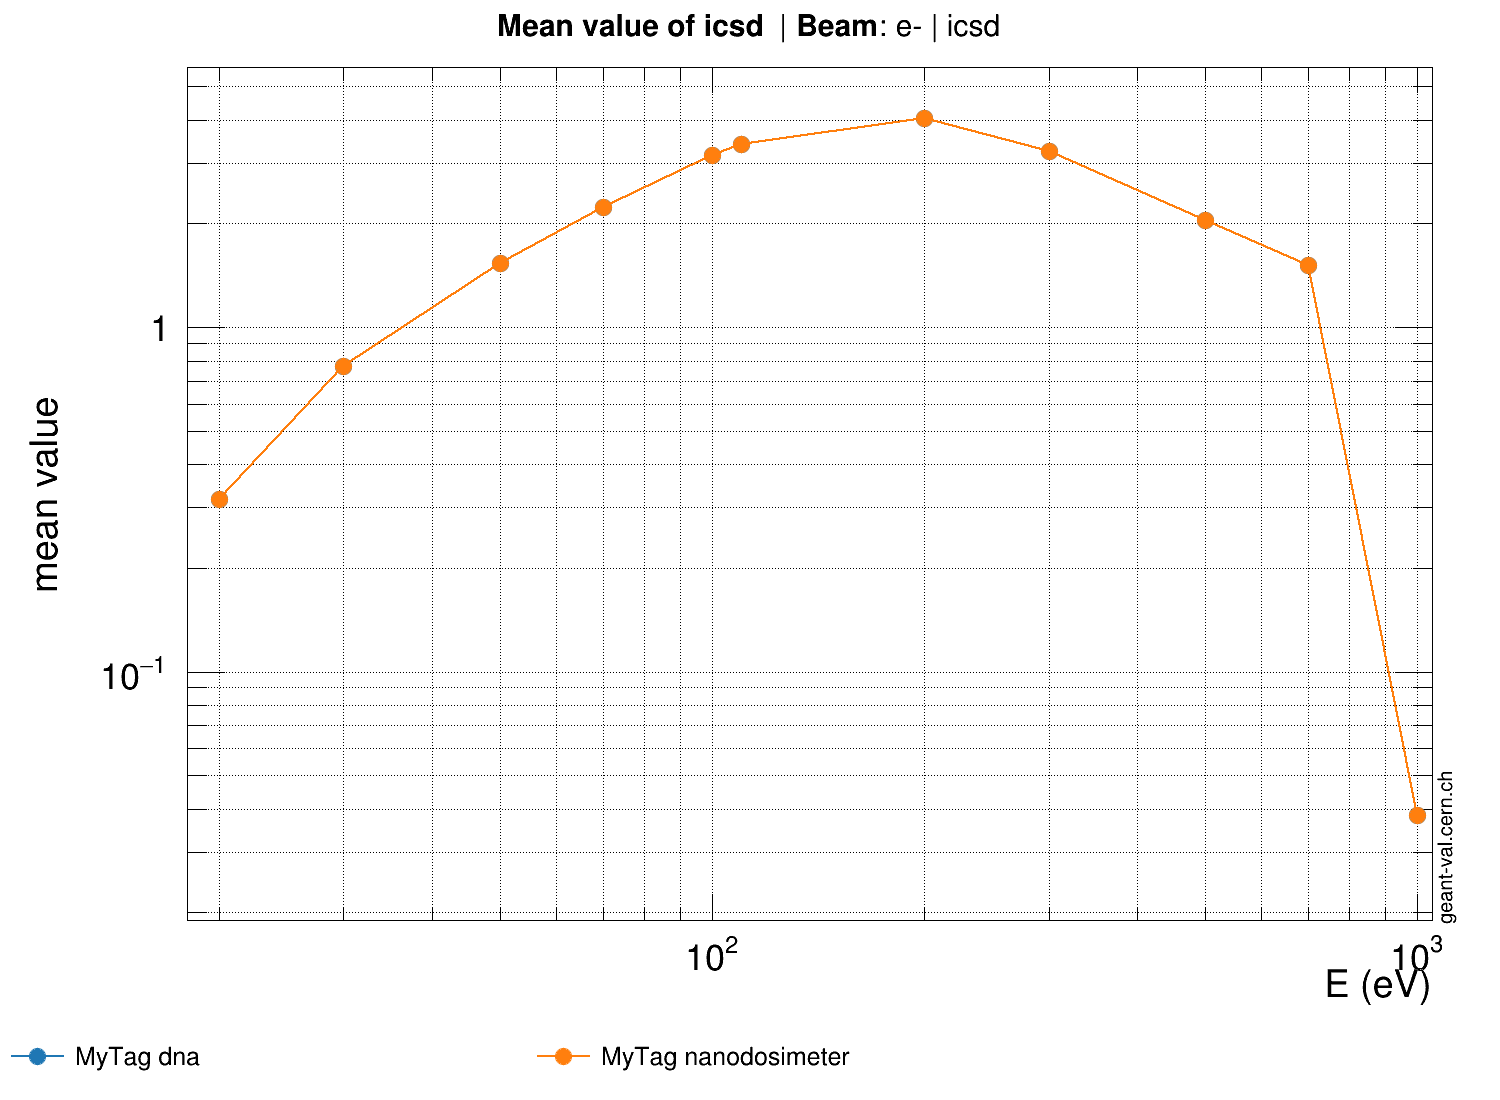
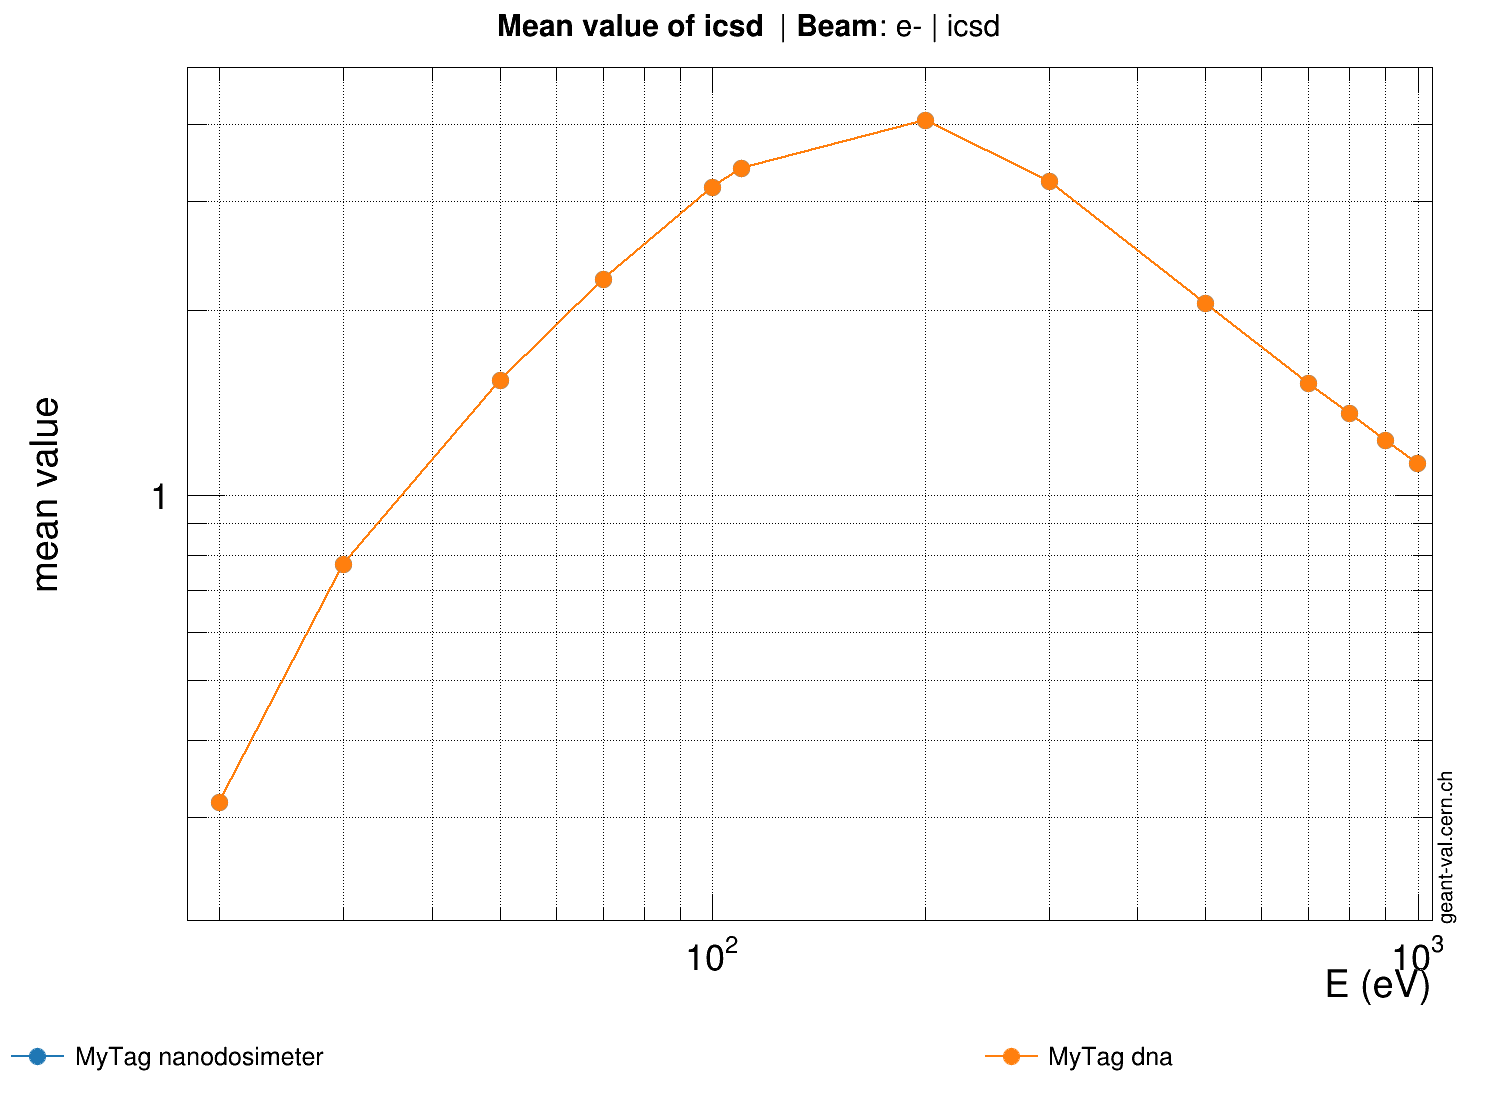
icsd/electron.conf/MyTag : jeu. mars 23 14:07:37 CET 2023

diff --git a/assets/OUTPUTJSON/geant4/MyTag/x86_64/icsd/electron.conf.c b/assets/OUTPUTJSON/geant4/MyTag/x86_64/icsd/electron.conf.c
@@ -478,3 +478,139 @@ double gvp_id-1_yerrors[11] = {
   0,
   0
 };
+// Tool:               GEANT4
+// Version:            MyTag
+// Model:              icsd
+// Observable:         mean value of icsd
+// Target:             nanodosimeter
+// Beam Particle:      e-
+// Secondary Particle: None
+
+double gvp_id-1_x[13] = {
+  20,
+  30,
+  50,
+  70,
+  100,
+  110,
+  200,
+  300,
+  500,
+  700,
+  800,
+  900,
+  999
+};
+double gvp_id-1_y[13] = {
+  0.3173,
+  0.7721,
+  1.53449,
+  2.24022,
+  3.16173,
+  3.39893,
+  4.06002,
+  3.2373,
+  2.04763,
+  1.51898,
+  1.35961,
+  1.22712,
+  1.12516
+};
+double gvp_id-1_xerrors[13] = {
+  0,
+  0,
+  0,
+  0,
+  0,
+  0,
+  0,
+  0,
+  0,
+  0,
+  0,
+  0,
+  0
+};
+double gvp_id-1_yerrors[13] = {
+  0,
+  0,
+  0,
+  0,
+  0,
+  0,
+  0,
+  0,
+  0,
+  0,
+  0,
+  0,
+  0
+};
+// Tool:               GEANT4
+// Version:            MyTag
+// Model:              icsd
+// Observable:         mean value of icsd
+// Target:             dna
+// Beam Particle:      e-
+// Secondary Particle: None
+
+double gvp_id-1_x[13] = {
+  20,
+  30,
+  50,
+  70,
+  100,
+  110,
+  200,
+  300,
+  500,
+  700,
+  800,
+  900,
+  999
+};
+double gvp_id-1_y[13] = {
+  0.3173,
+  0.7721,
+  1.53449,
+  2.24022,
+  3.16173,
+  3.39893,
+  4.06002,
+  3.2373,
+  2.04763,
+  1.51898,
+  1.35961,
+  1.22712,
+  1.12516
+};
+double gvp_id-1_xerrors[13] = {
+  0,
+  0,
+  0,
+  0,
+  0,
+  0,
+  0,
+  0,
+  0,
+  0,
+  0,
+  0,
+  0
+};
+double gvp_id-1_yerrors[13] = {
+  0,
+  0,
+  0,
+  0,
+  0,
+  0,
+  0,
+  0,
+  0,
+  0,
+  0,
+  0,
+  0
+};
